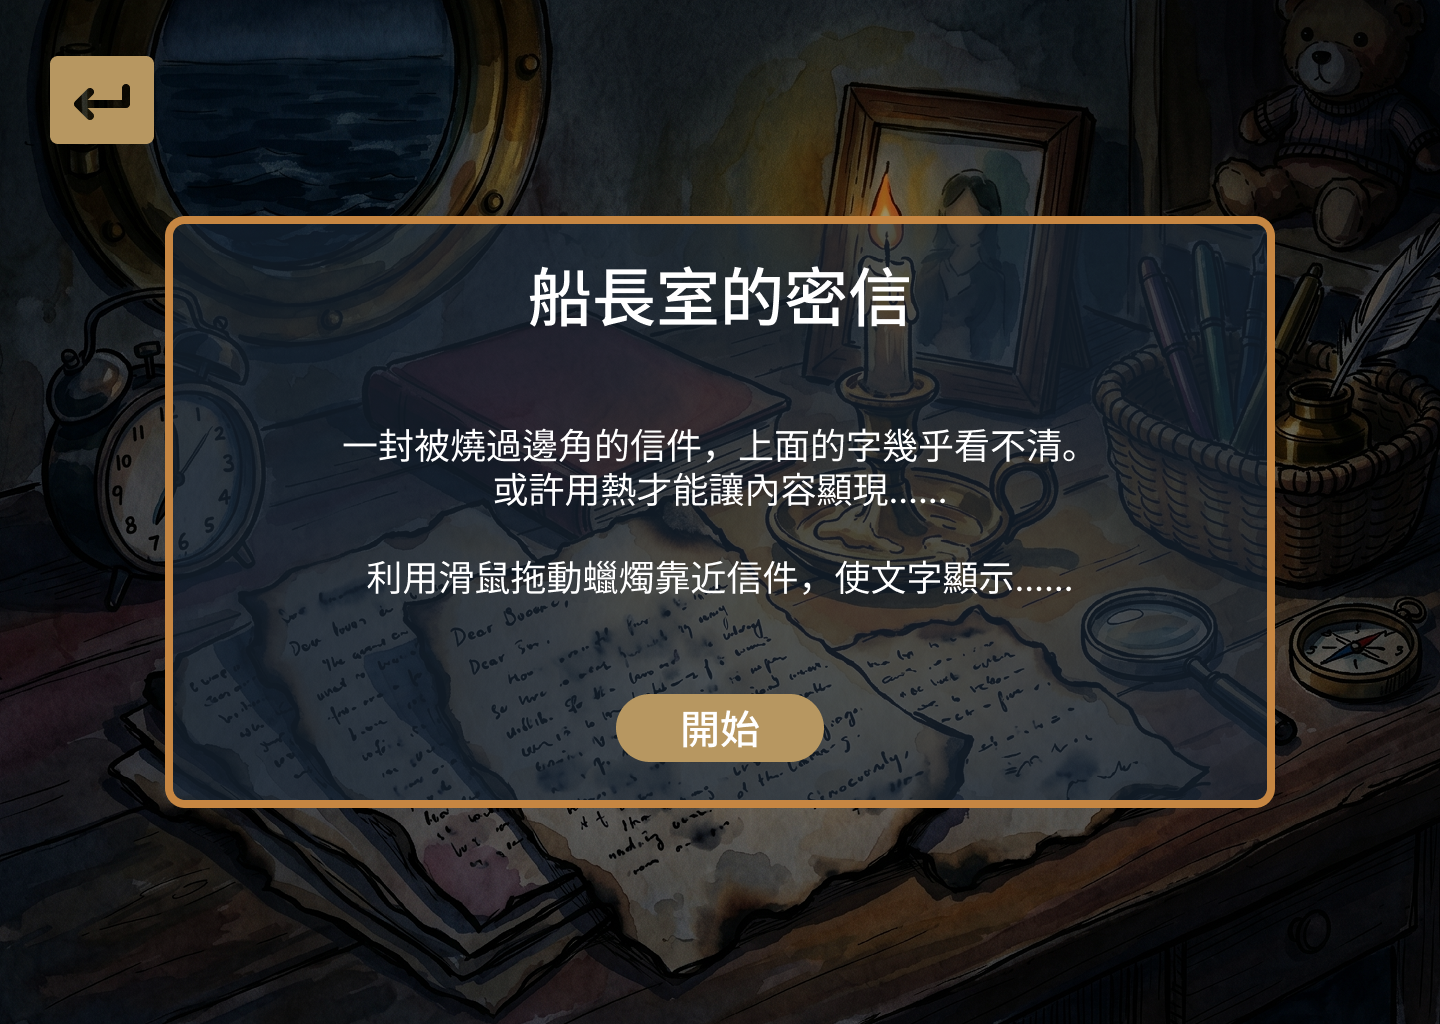
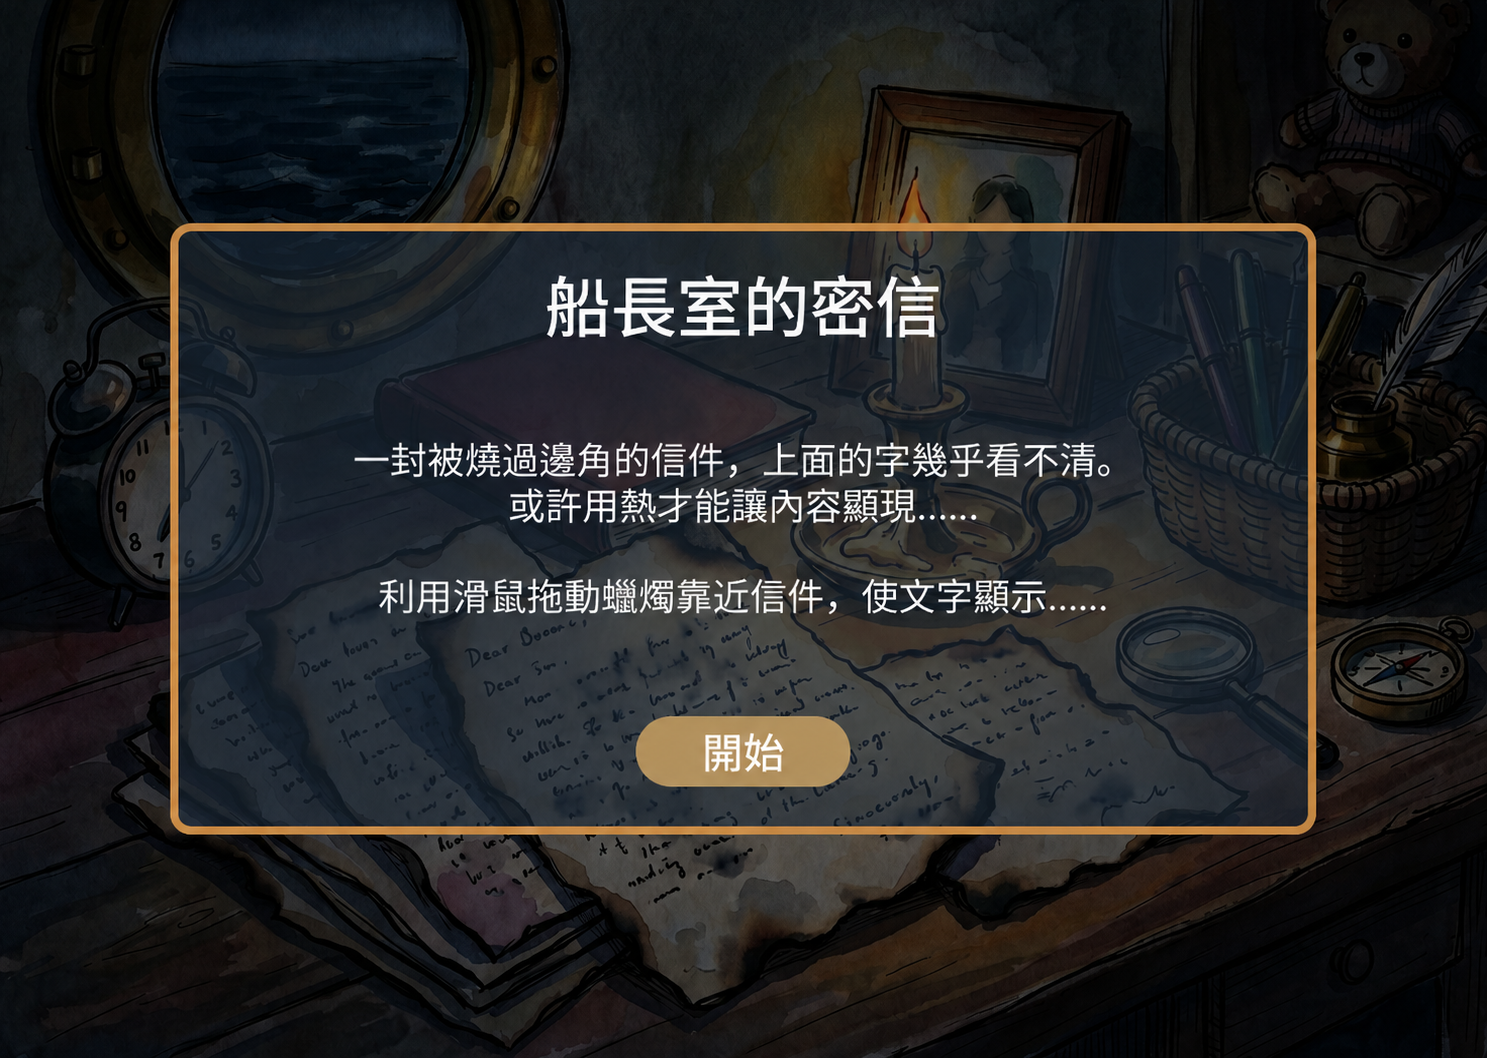
fix: letter按鈕響應式

diff --git a/components/LetterGame.tsx b/components/LetterGame.tsx
@@ -15,10 +15,14 @@ export default function LetterGame({ onSuccess }: LetterGameProps) {
 
     container.innerHTML = `
       <div class="letter-game-box">
+          <button id="real-back-button" class="real-back-btn" style="display: block;">
+            <img src="/assets/BackBtn.png" alt="返回" style="width:100%;height:100%;object-fit:contain;" />
+          </button>
+
           <div class="stage-wrapper">
               <img id="game-stage" src="/assets/letter_1.png" alt="遊戲背景" />
               <img id="drag-candle" src="/assets/letter_candle.png" alt="蠟燭" draggable="true" style="display: none;" />
-              <div id="hotspot-back" class="hotspot" style="display: block;"></div>
+              
               <div id="hotspot-start" class="hotspot" style="display: block;"></div>
               <div id="hotspot-letter-target" class="hotspot" style="display: none;"></div>
               <div id="hotspot-click-next" class="hotspot" style="display: none;"></div>
@@ -27,19 +31,43 @@ export default function LetterGame({ onSuccess }: LetterGameProps) {
       </div>
       <style>
             .letter-game-box {
-              /* Fill the entire overlay area so the image can scale to maximum visible size */
+              position: relative; /* 讓真實返回按鈕可以相對於這個大框框做絕對定位 */
               width: 100%;
               height: 100%;
               display: flex;
               justify-content: center;
               align-items: center;
-              background: transparent;
+              background: #111; /* 保持精美置中時的黑底沉浸感 */
               border-radius: 0;
               padding: 0;
               box-sizing: border-box;
               overflow: hidden;
             }
 
+            .real-back-btn {
+              position: absolute;
+              top: 20px;
+              left: 20px;
+              width: 50px;
+              height: 50px;
+              background: transparent;  /* 移除背景色 */
+              border: none;
+              border-radius: 0;         /* 移除圓角 */
+              padding: 0;
+              cursor: pointer;
+              z-index: 100;
+              display: flex;
+              justify-content: center;
+              align-items: center;
+              box-shadow: none;         /* 移除陰影 */
+              transition: transform 0.1s;
+            }
+            .real-back-btn:hover {
+              background: transparent;
+            }
+            .real-back-btn:active {
+              transform: scale(0.95);
+            }
             .stage-wrapper {
               position: relative;
               display: flex;
@@ -79,12 +107,6 @@ export default function LetterGame({ onSuccess }: LetterGameProps) {
               background: rgba(0, 0, 0, 0);
           }
 
-          #hotspot-back {
-              top: 0%; left: 10%;
-              width: 15%; height: 15%;
-              z-index: 30;
-          }
-
           #hotspot-start {
               top: 15%; left: 0%;
               width: 100%; height: 85%;
@@ -113,7 +135,7 @@ export default function LetterGame({ onSuccess }: LetterGameProps) {
 
     const gameStage = container.querySelector<HTMLImageElement>('#game-stage');
     const dragCandle = container.querySelector<HTMLImageElement>('#drag-candle');
-    const hotspotBack = container.querySelector<HTMLDivElement>('#hotspot-back');
+    const realBackButton = container.querySelector<HTMLButtonElement>('#real-back-button'); // 🌟 抓取新按鈕
     const hotspotStart = container.querySelector<HTMLDivElement>('#hotspot-start');
     const hotspotLetter = container.querySelector<HTMLDivElement>('#hotspot-letter-target');
     const hotspotNext = container.querySelector<HTMLDivElement>('#hotspot-click-next');
@@ -133,14 +155,32 @@ export default function LetterGame({ onSuccess }: LetterGameProps) {
       cleanupFns.push(() => element.removeEventListener(type, listener));
     };
 
-    register(hotspotBack, 'click', () => {
+    // 🌟 更改處：將點擊監聽改綁在「真實實體按鈕」上，並對齊你的返回與隱藏邏輯
+    register(realBackButton, 'click', (e: Event) => {
+      if (e) e.stopPropagation(); 
+      
       if (currentStep === 1) {
+        // 步驟 1 點返回：直接退出關卡
         onSuccess(false);
-      } else if (currentStep === 3) {
+      } 
+      else if (currentStep === 2) {
+        // 🌟 依據鎖扣邏輯：步驟 2 (letter_2-1) 點返回：回到步驟 1 (letter_1)
+        currentStep = 1;
+        if (gameStage) gameStage.src = '/assets/letter_1.png';
+        if (hotspotStart) hotspotStart.style.display = 'block';
+        if (dragCandle) dragCandle.style.display = 'none';
+        if (hotspotLetter) hotspotLetter.style.display = 'none';
+        if (realBackButton) realBackButton.style.display = 'block'; // 確保返回按鈕在
+      }
+      else if (currentStep === 3) {
+        // 步驟 3 (letter_2-2) 點返回：回到步驟 2 (letter_2-1 重新烤信)
         currentStep = 2;
         if (gameStage) gameStage.src = '/assets/letter_2-1.png';
         if (hotspotNext) hotspotNext.style.display = 'none';
-        if (hotspotBack) hotspotBack.style.display = 'none';
+        
+        // 🌟 依據新邏輯：在步驟 2 時返回鈕依然要開著，讓玩家可以一路退回第一頁說明
+        if (realBackButton) realBackButton.style.display = 'block'; 
+        
         if (dragCandle) {
           dragCandle.style.display = 'block';
           dragCandle.style.visibility = 'visible';
@@ -152,10 +192,12 @@ export default function LetterGame({ onSuccess }: LetterGameProps) {
     register(hotspotStart, 'click', () => {
       currentStep = 2;
       if (hotspotStart) hotspotStart.style.display = 'none';
-      if (hotspotBack) hotspotBack.style.display = 'none';
       if (gameStage) gameStage.src = '/assets/letter_2-1.png';
       if (dragCandle) dragCandle.style.display = 'block';
       if (hotspotLetter) hotspotLetter.style.display = 'block';
+      
+      // 🌟 進入步驟 2，返回鈕維持 block 不隱藏
+      if (realBackButton) realBackButton.style.display = 'block';
     });
 
     if (dragCandle) {
@@ -185,7 +227,7 @@ export default function LetterGame({ onSuccess }: LetterGameProps) {
         if (dragCandle) dragCandle.style.display = 'none';
         if (hotspotLetter) hotspotLetter.style.display = 'none';
         if (gameStage) gameStage.src = '/assets/letter_2-2.png';
-        if (hotspotBack) hotspotBack.style.display = 'block';
+        if (realBackButton) realBackButton.style.display = 'block';
         if (hotspotNext) hotspotNext.style.display = 'block';
       });
     }
@@ -193,7 +235,10 @@ export default function LetterGame({ onSuccess }: LetterGameProps) {
     register(hotspotNext, 'click', () => {
       currentStep = 4;
       if (hotspotNext) hotspotNext.style.display = 'none';
-      if (hotspotBack) hotspotBack.style.display = 'none';
+      
+      // 最後一頁線索頁，為了防呆與強制玩家通關，隱藏左上角返回按鈕
+      if (realBackButton) realBackButton.style.display = 'none'; 
+      
       if (gameStage) gameStage.src = '/assets/letter_3.png';
       if (hotspotWin) hotspotWin.style.display = 'block';
     });
